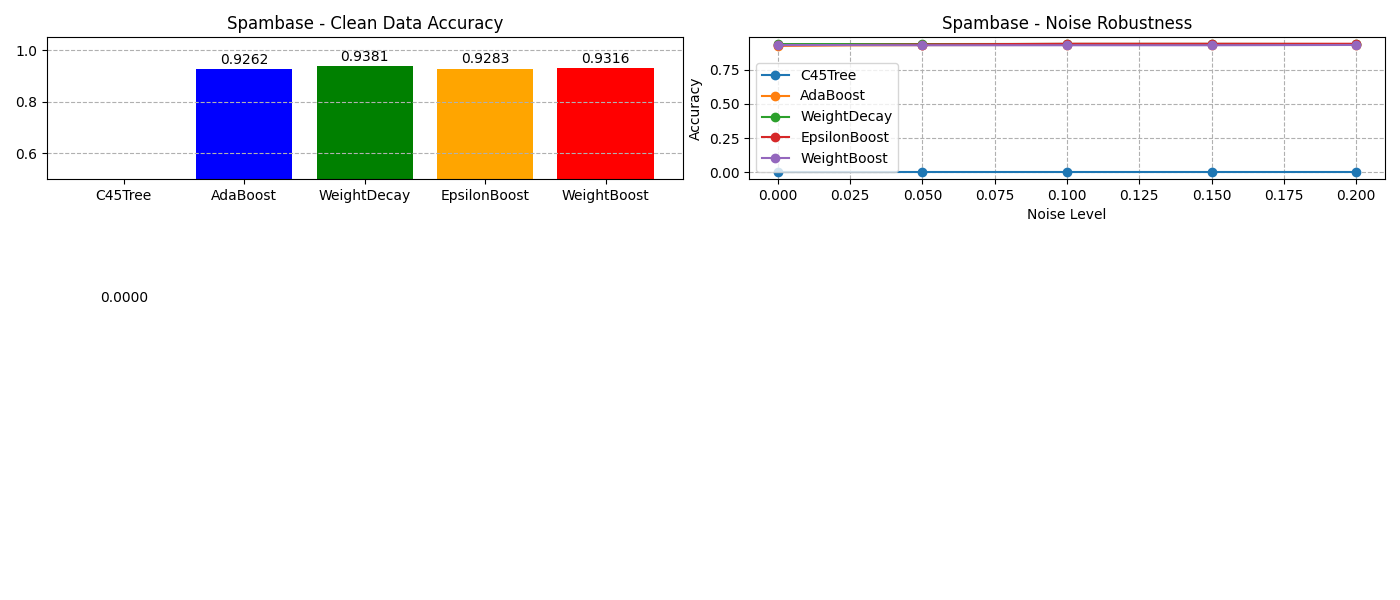
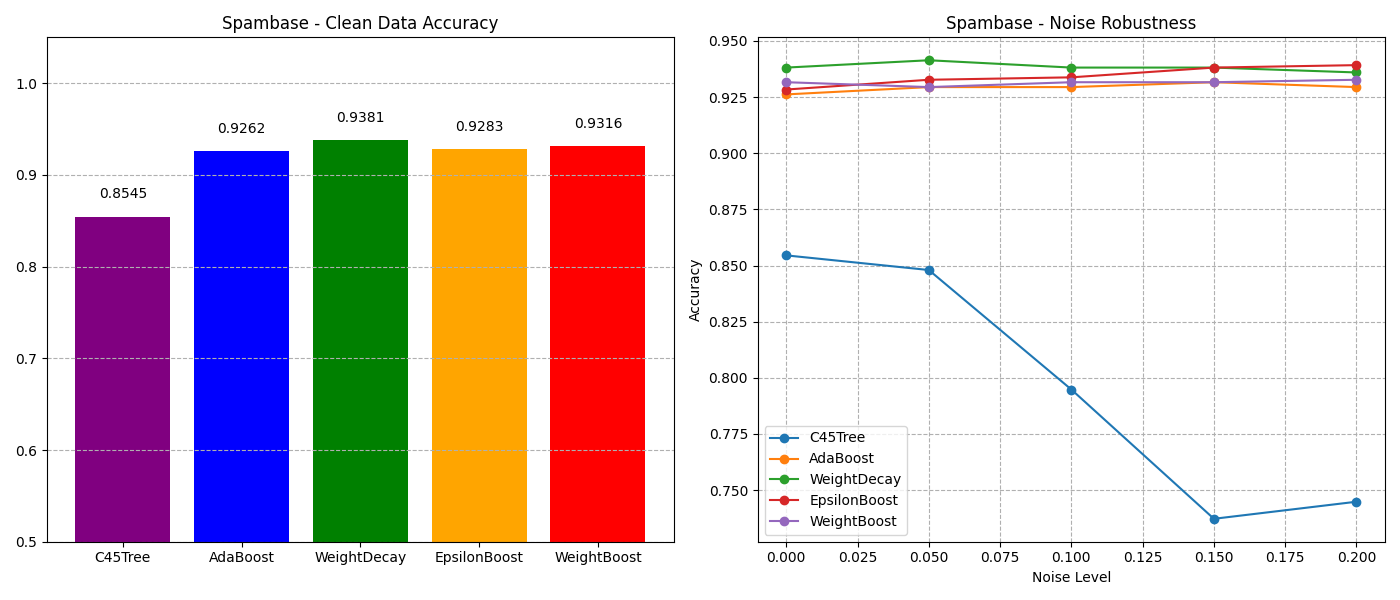
update test.py and the picture of Spambase

diff --git a/test.py b/test.py
@@ -80,7 +80,7 @@ def load_datasets():
             df[cat_cols] = encoder.fit_transform(df[cat_cols])
         
         return df
-
+    '''
     # 1. Ionosphere (ID 52)
     ionosphere = fetch_ucirepo(id=52)
     X = encode_categorical(ionosphere.data.features).to_numpy()
@@ -122,6 +122,7 @@ def load_datasets():
     X = encode_categorical(cmc.data.features).to_numpy()
     y = np.where(cmc.data.targets.iloc[:, 0].isin([2, 3]), 1, -1)
     datasets['Contraceptive'] = (X, y)
+    '''
 
     # 8. Spambase (ID 94)
     spambase = fetch_ucirepo(id=94)
@@ -160,7 +161,8 @@ def run_experiment(datasets, noise_levels=[0, 0.05, 0.1, 0.15, 0.2], n_estimator
             }
             
             # Define a timeout wrapper for fit
-            @timeout(30)  # 30 seconds timeout for training
+            # @timeout(30)  # 30 seconds timeout for training
+            @timeout(120)
             def fit_with_timeout(clf, X, y):
                 return clf.fit(X, y)
             
